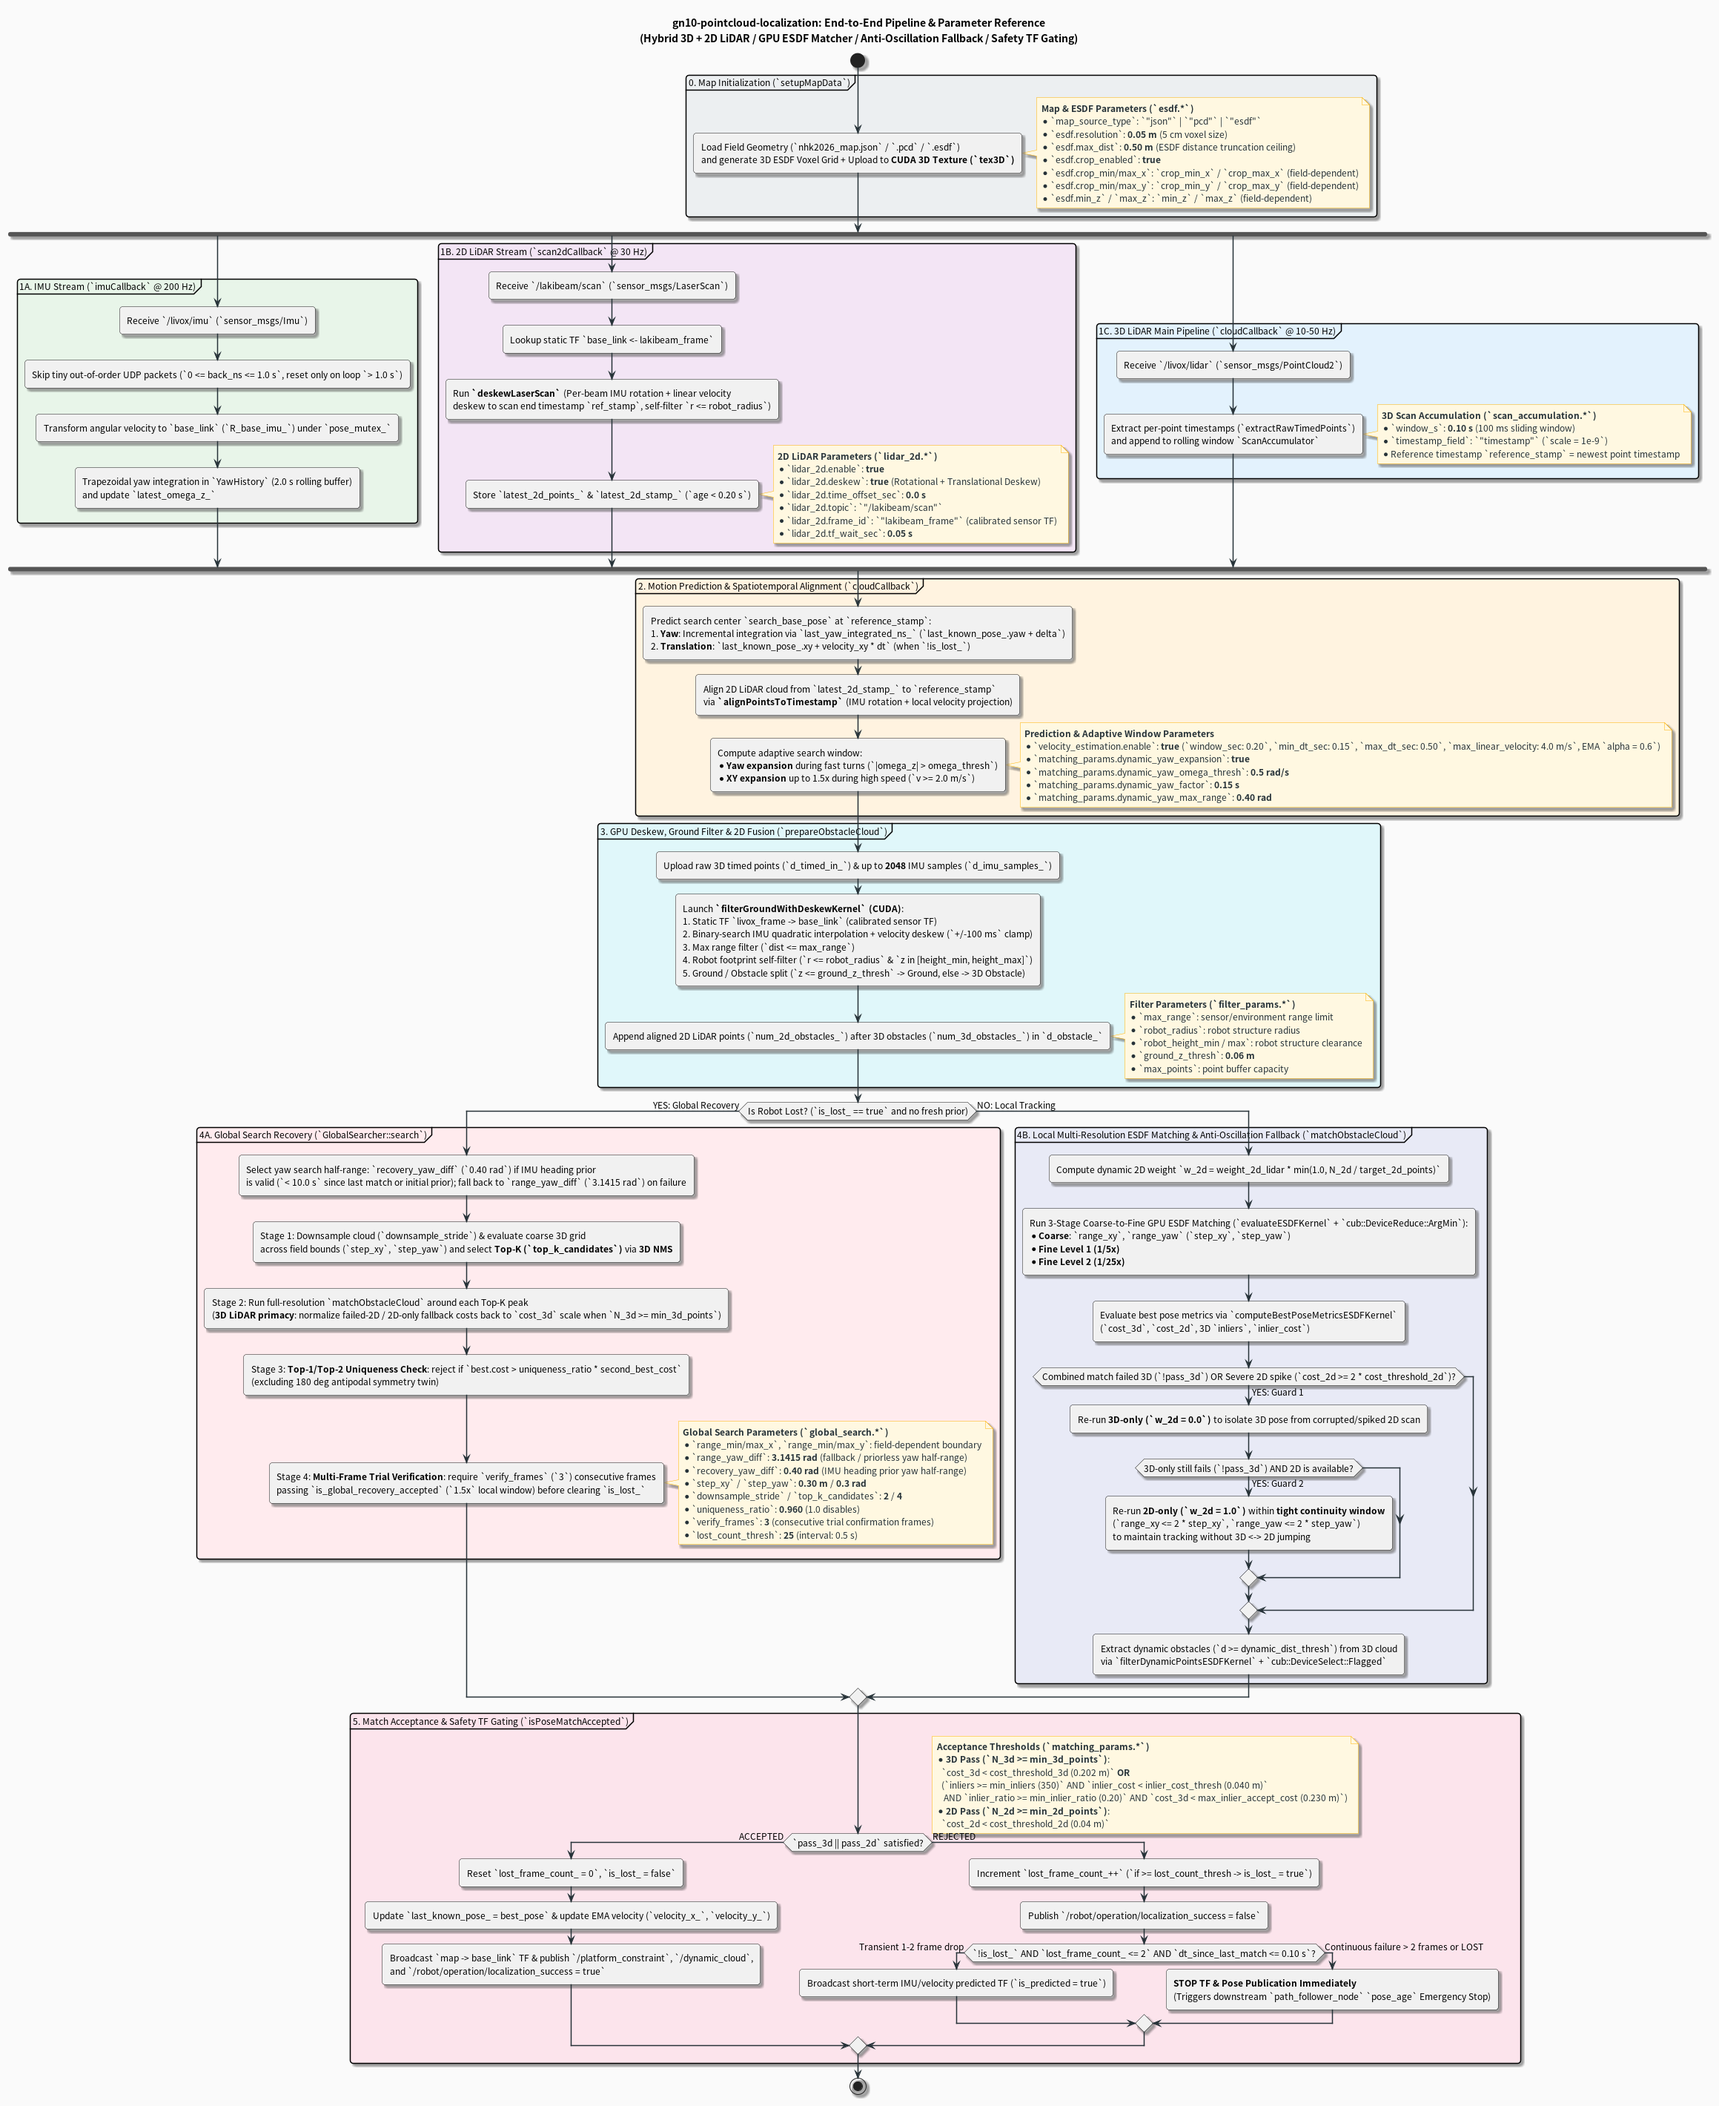
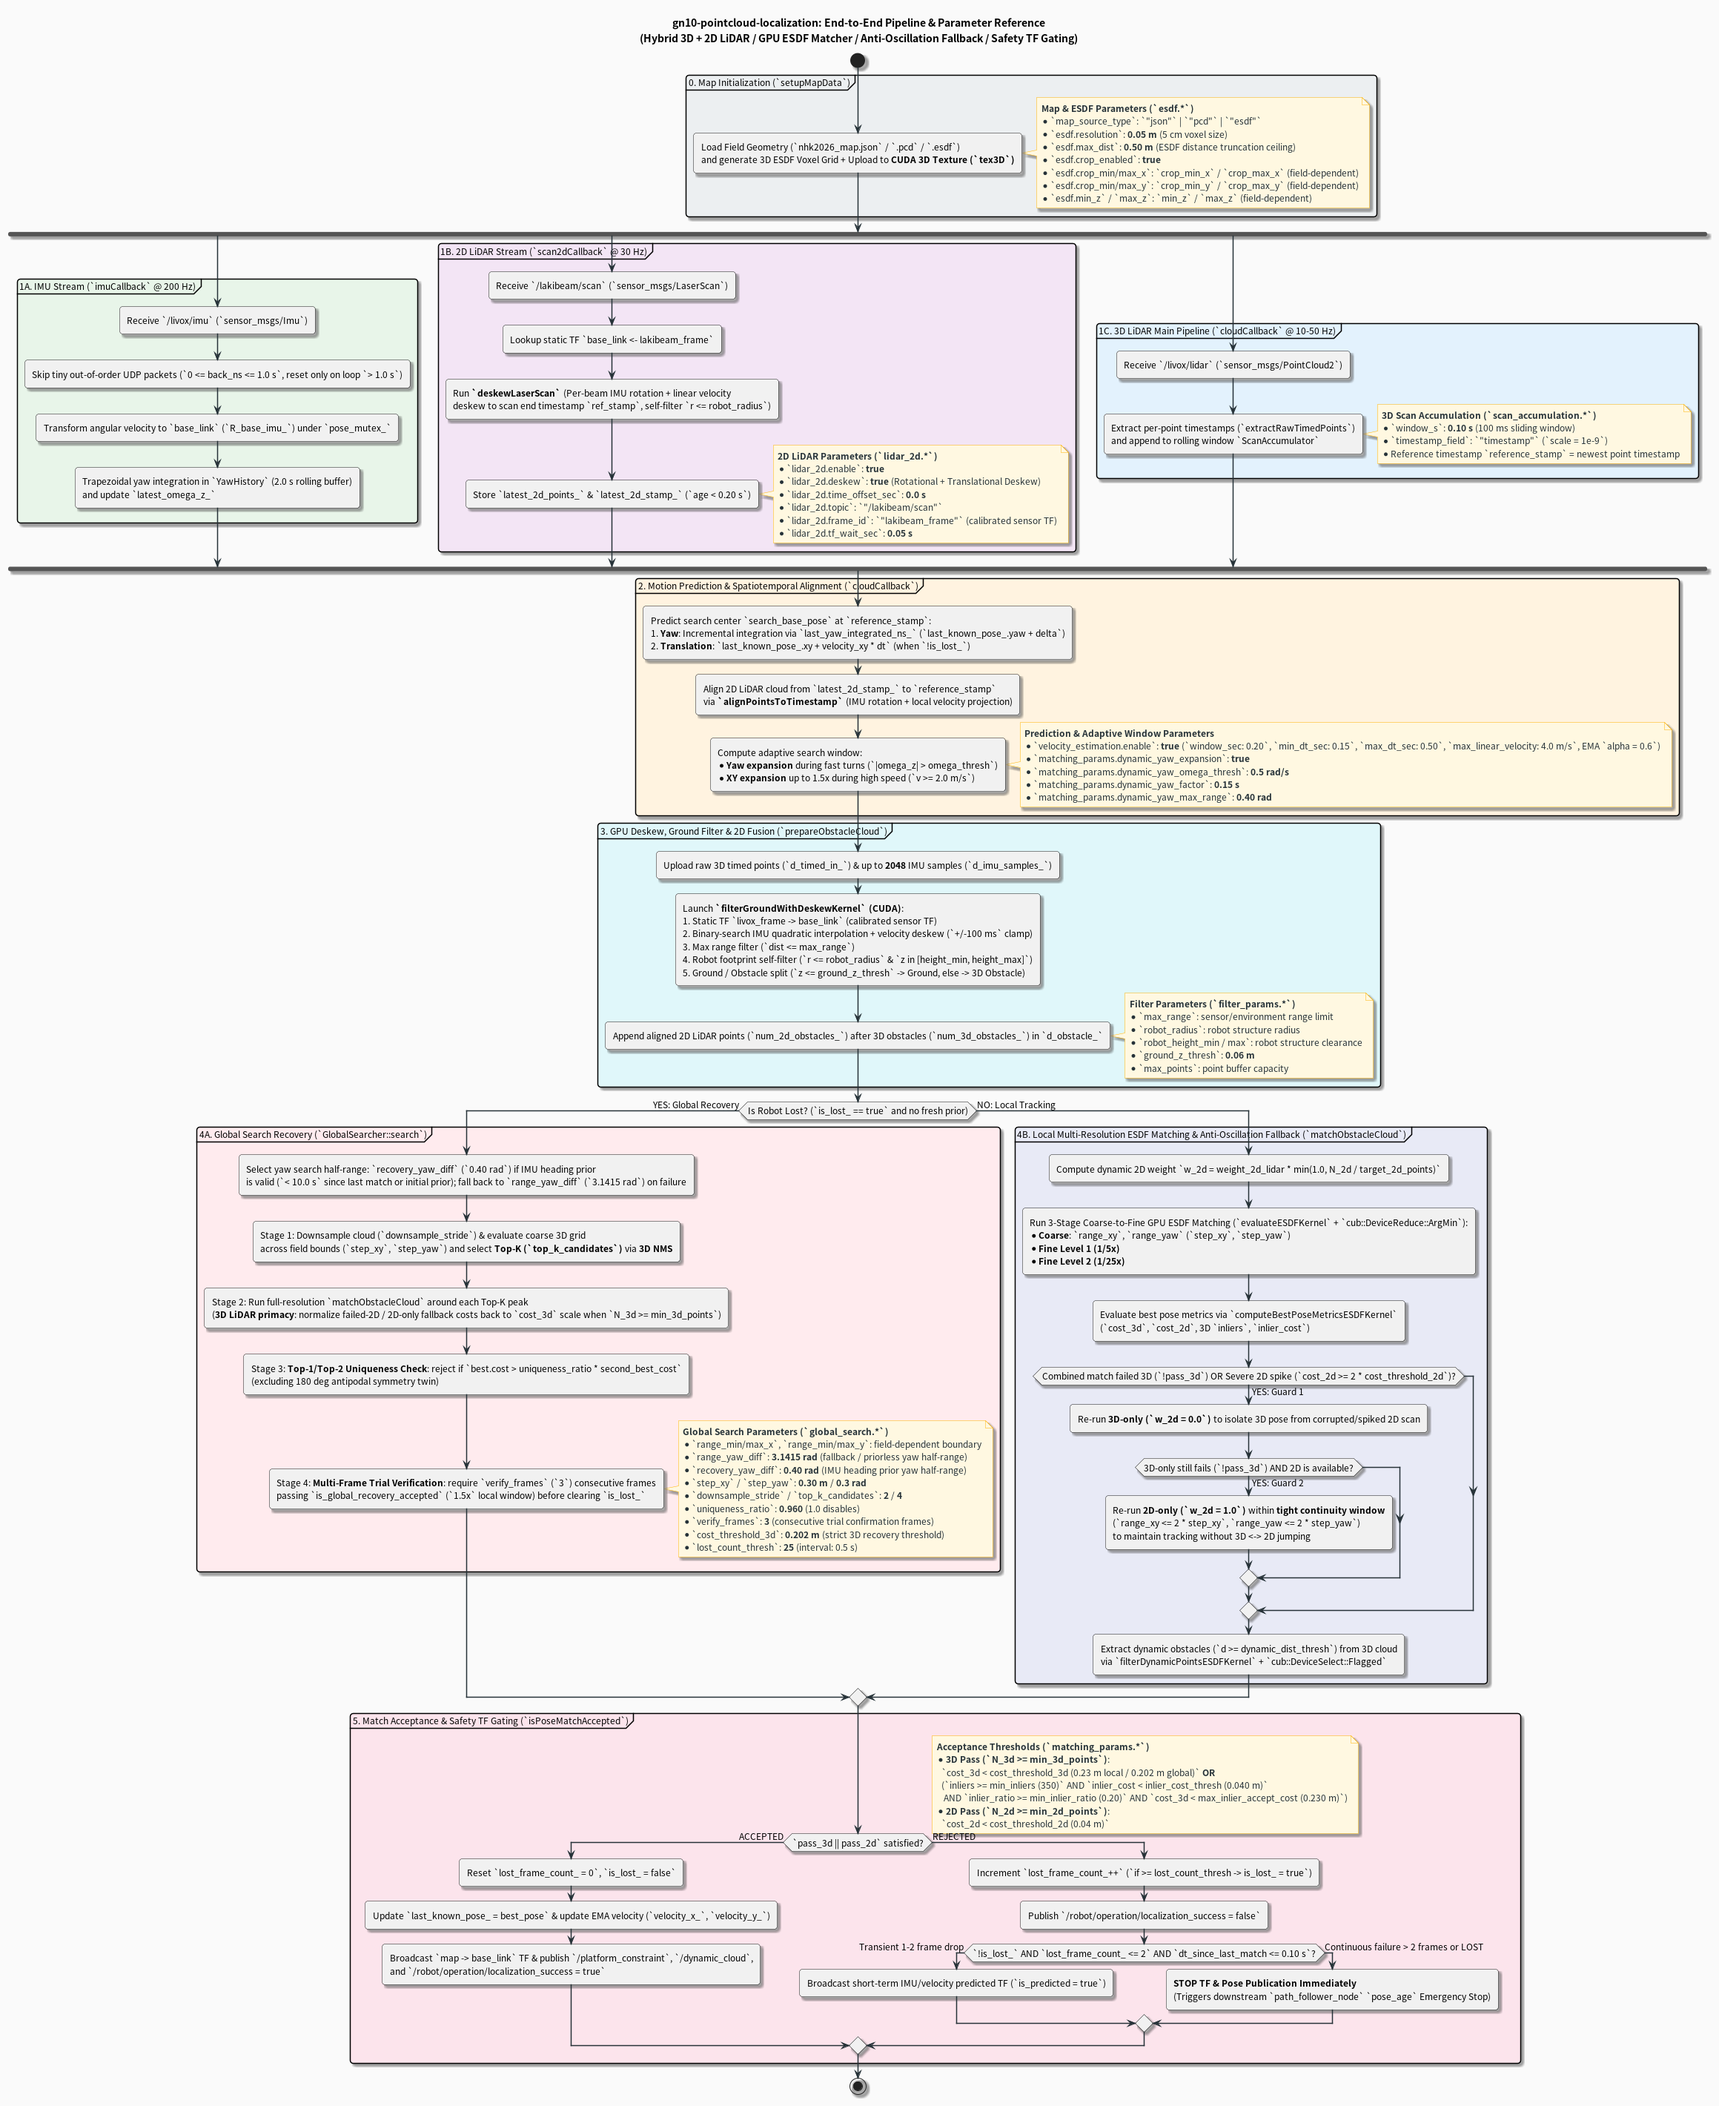
fix(global_search): decouple global_search.cost_threshold_3d from local tracking

diff --git a/src/localization_node.cpp b/src/localization_node.cpp
@@ -172,6 +172,7 @@ void LocalizationNode::declareAndGetParameters()
     this->declare_parameter("global_search.top_k_candidates", 4);
     this->declare_parameter("global_search.uniqueness_ratio", 0.95);
     this->declare_parameter("global_search.verify_frames", 2);
+    this->declare_parameter("global_search.cost_threshold_3d", 0.202);
     this->declare_parameter("global_search.lost_count_thresh", 5);
     this->declare_parameter("global_search.interval_sec", 0.5);
 
@@ -301,6 +302,8 @@ void LocalizationNode::declareAndGetParameters()
     global_verify_frames_ = std::max(
         1, static_cast<int>(this->get_parameter("global_search.verify_frames").as_int())
     );
+    global_cost_threshold_3d_ =
+        static_cast<float>(this->get_parameter("global_search.cost_threshold_3d").as_double());
     lost_threshold_count_ = this->get_parameter("global_search.lost_count_thresh").as_int();
     global_search_interval_sec_ =
         std::max(0.1, this->get_parameter("global_search.interval_sec").as_double());
@@ -1187,7 +1190,8 @@ void LocalizationNode::cloudCallback(const sensor_msgs::msg::PointCloud2::Shared
                 imu_snapshot.delta(active_trial_stamp.nanoseconds(), reference_ns, trial_rot)) {
                 trial_pose.yaw = normalizeAngle(trial_pose.yaw + static_cast<float>(trial_rot));
             }
-            MatchingParams trial_match_params = active_match_params;
+            MatchingParams trial_match_params  = active_match_params;
+            trial_match_params.cost_threshold_3d = global_cost_threshold_3d_;
             trial_match_params.range_xy *= 1.5f;
 
             const bool trial_matched = solver_->processPointCloud(
@@ -1265,6 +1269,9 @@ void LocalizationNode::cloudCallback(const sensor_msgs::msg::PointCloud2::Shared
             has_imu_yaw_prior ? std::min(global_range_yaw_diff_, global_recovery_yaw_diff_)
                               : global_range_yaw_diff_;
 
+        MatchingParams gs_match_params  = active_match_params;
+        gs_match_params.cost_threshold_3d = global_cost_threshold_3d_;
+
         best_pose = global_searcher_->search(
             *solver_,
             accumulated_points,
@@ -1273,7 +1280,7 @@ void LocalizationNode::cloudCallback(const sensor_msgs::msg::PointCloud2::Shared
             imu_samples,
             stride,
             active_filter_params,
-            active_match_params,
+            gs_match_params,
             current_prior_yaw,
             effective_yaw_diff,
             best_cost,
@@ -1284,7 +1291,7 @@ void LocalizationNode::cloudCallback(const sensor_msgs::msg::PointCloud2::Shared
 
         const bool gs_accepted =
             std::isfinite(best_cost) && (best_cost < std::numeric_limits<float>::max() / 2.0f) &&
-            is_global_recovery_accepted(active_match_params, inlier_count, inlier_cost);
+            is_global_recovery_accepted(gs_match_params, inlier_count, inlier_cost);
 
         if (gs_accepted) {
             if (global_verify_frames_ <= 1) {
@@ -2211,7 +2218,8 @@ rcl_interfaces::msg::SetParametersResult LocalizationNode::onParametersChange(
             name == "matching_params.max_inlier_accept_cost" ||
             name == "matching_params.cost_threshold" ||
             name == "matching_params.cost_threshold_3d" ||
-            name == "matching_params.cost_threshold_2d"
+            name == "matching_params.cost_threshold_2d" ||
+            name == "global_search.cost_threshold_3d"
         ) {
             const double val = param.as_double();
             if (!std::isfinite(val) || val <= 0.0) {
@@ -2370,6 +2378,8 @@ rcl_interfaces::msg::SetParametersResult LocalizationNode::onParametersChange(
             update_global_search_cfg = true;
         } else if (name == "global_search.verify_frames") {
             global_verify_frames_ = static_cast<int>(param.as_int());
+        } else if (name == "global_search.cost_threshold_3d") {
+            global_cost_threshold_3d_ = static_cast<float>(param.as_double());
         } else if (name == "global_search.lost_count_thresh") {
             lost_threshold_count_ = static_cast<int>(param.as_int());
 

diff --git a/include/gn10_pointcloud_localization/localization_node.hpp b/include/gn10_pointcloud_localization/localization_node.hpp
@@ -118,6 +118,7 @@ private:
     int global_top_k_candidates_{4};
     float global_uniqueness_ratio_{0.95f};
     int global_verify_frames_{2};
+    float global_cost_threshold_3d_{0.202f};
     int lost_threshold_count_{5};
     double global_search_interval_sec_{0.5};
     rclcpp::Time last_global_search_stamp_;

diff --git a/README_jp.md b/README_jp.md
@@ -115,7 +115,7 @@ ros2 launch gn10_pointcloud_localization localization.launch.py use_sim_time:=tr
 | `matching_params.fine_refine` / `levels` | `true` / `2` | 2 段の $5 \times 5 \times 5$ サブボクセル精密探索（`0.05 m` $\to$ `0.002 m`）。 |
 | `matching_params.max_dist_thresh` | `0.25` | マッチング評価時の点ごとの ESDF 残差打ち切り距離 [m]。 |
 | `matching_params.dynamic_dist_thresh` | `0.15` | `/dynamic_cloud` として抽出するマップ表面からの距離閾値 [m]。 |
-| `matching_params.cost_threshold_3d` | `0.202` | 3D LiDAR 独立残差合格しきい値 [m] ($C_{\text{3D}} < 0.202\text{ m}$)。 |
+| `matching_params.cost_threshold_3d` | `0.23` | ローカル追従時の 3D LiDAR 独立残差合格しきい値 [m] ($C_{\text{3D}} < 0.23\text{ m}$)。 |
 | `matching_params.cost_threshold_2d` | `0.04` | 2D LiDAR 独立残差合格しきい値 [m] ($C_{\text{2D}} < 0.04\text{ m}$、ヒステリシス切り離しは $2\times = 0.08\text{ m}$)。 |
 | `matching_params.inlier_dist_thresh` | `0.08` | マップ壁面から `0.08 m` (8 cm) 以内の点をインライアと判定。 |
 | `matching_params.min_inliers` | `350` | インライア合格判定に必要な最小インライア点数 ($N_{\text{inlier}} \ge 350$)。 |
@@ -134,6 +134,7 @@ ros2 launch gn10_pointcloud_localization localization.launch.py use_sim_time:=tr
 | `global_search.top_k_candidates` | `4` | グローバル復帰探索時にNMSで抽出して精密化する上位候補数。 |
 | `global_search.uniqueness_ratio` | `0.960` | 曖昧なグローバル一致を棄却する Top-1/Top-2 コスト比上限 (`best_cost <= uniqueness_ratio * second_best_cost`、$180^\circ$ 点対称ツインを除外、`1.0` で無効化)。 |
 | `global_search.verify_frames` | `3` | グローバル復帰を確定して TF/推定姿勢の出力を再開する前に、トライアル状態で要求する連続ローカル検証フレーム数。 |
+| `global_search.cost_threshold_3d` | `0.202` | グローバル探索復帰および Trial 検証時に適用する厳格な 3D LiDAR 独立残差合格しきい値 [m] ($C_{\text{3D}} < 0.202\text{ m}$)。 |
 | `global_search.lost_count_thresh` | `25` | グローバル全域探索へ移行する連続失敗フレーム数。 |
 
 ## 6. 設計図一覧

diff --git a/README.md b/README.md
@@ -115,7 +115,7 @@ Common parameters are defined in [`config/common_params.yaml`](./config/common_p
 | `matching_params.fine_refine` / `levels` | `true` / `2` | 2-stage $5 \times 5 \times 5$ sub-voxel refinement (`0.05 m` $\to$ `0.002 m`). |
 | `matching_params.max_dist_thresh` | `0.25` | Per-point Huber/L1 residual distance clipping ceiling [m]. |
 | `matching_params.dynamic_dist_thresh` | `0.15` | Distance threshold [m] above which points are extracted as `/dynamic_cloud`. |
-| `matching_params.cost_threshold_3d` | `0.202` | Independent 3D LiDAR mean residual acceptance threshold [m] ($C_{\text{3D}} < 0.202\text{ m}$). |
+| `matching_params.cost_threshold_3d` | `0.23` | Independent 3D LiDAR mean residual acceptance threshold [m] for local tracking ($C_{\text{3D}} < 0.23\text{ m}$). |
 | `matching_params.cost_threshold_2d` | `0.04` | Independent 2D LiDAR mean residual acceptance threshold [m] ($C_{\text{2D}} < 0.04\text{ m}$, hysteresis detachment at $2\times = 0.08\text{ m}$). |
 | `matching_params.inlier_dist_thresh` | `0.08` | Distance threshold [m] to classify an obstacle point as a wall inlier. |
 | `matching_params.min_inliers` | `350` | Minimum inlier point count for inlier-based acceptance ($N_{\text{inlier}} \ge 350$). |
@@ -134,6 +134,7 @@ Common parameters are defined in [`config/common_params.yaml`](./config/common_p
 | `global_search.top_k_candidates` | `4` | Number of Top-K spatially distinct local minima refined via NMS during global recovery. |
 | `global_search.uniqueness_ratio` | `0.960` | Top-1/Top-2 cost margin threshold (`best_cost <= uniqueness_ratio * second_best_cost`, excluding $180^\circ$ antipodal symmetry twin) to reject ambiguous global matches (`1.0` disables). |
 | `global_search.verify_frames` | `3` | Consecutive local verification frames required in trial state before committing global recovery and resuming TF/pose output. |
+| `global_search.cost_threshold_3d` | `0.202` | Independent 3D LiDAR mean residual threshold [m] enforced during Global Search recovery and trial verification ($C_{\text{3D}} < 0.202\text{ m}$). |
 | `global_search.lost_count_thresh` | `25` | Consecutive failed frame threshold before triggering full-field global search. |
 
 ## 6. Diagrams
